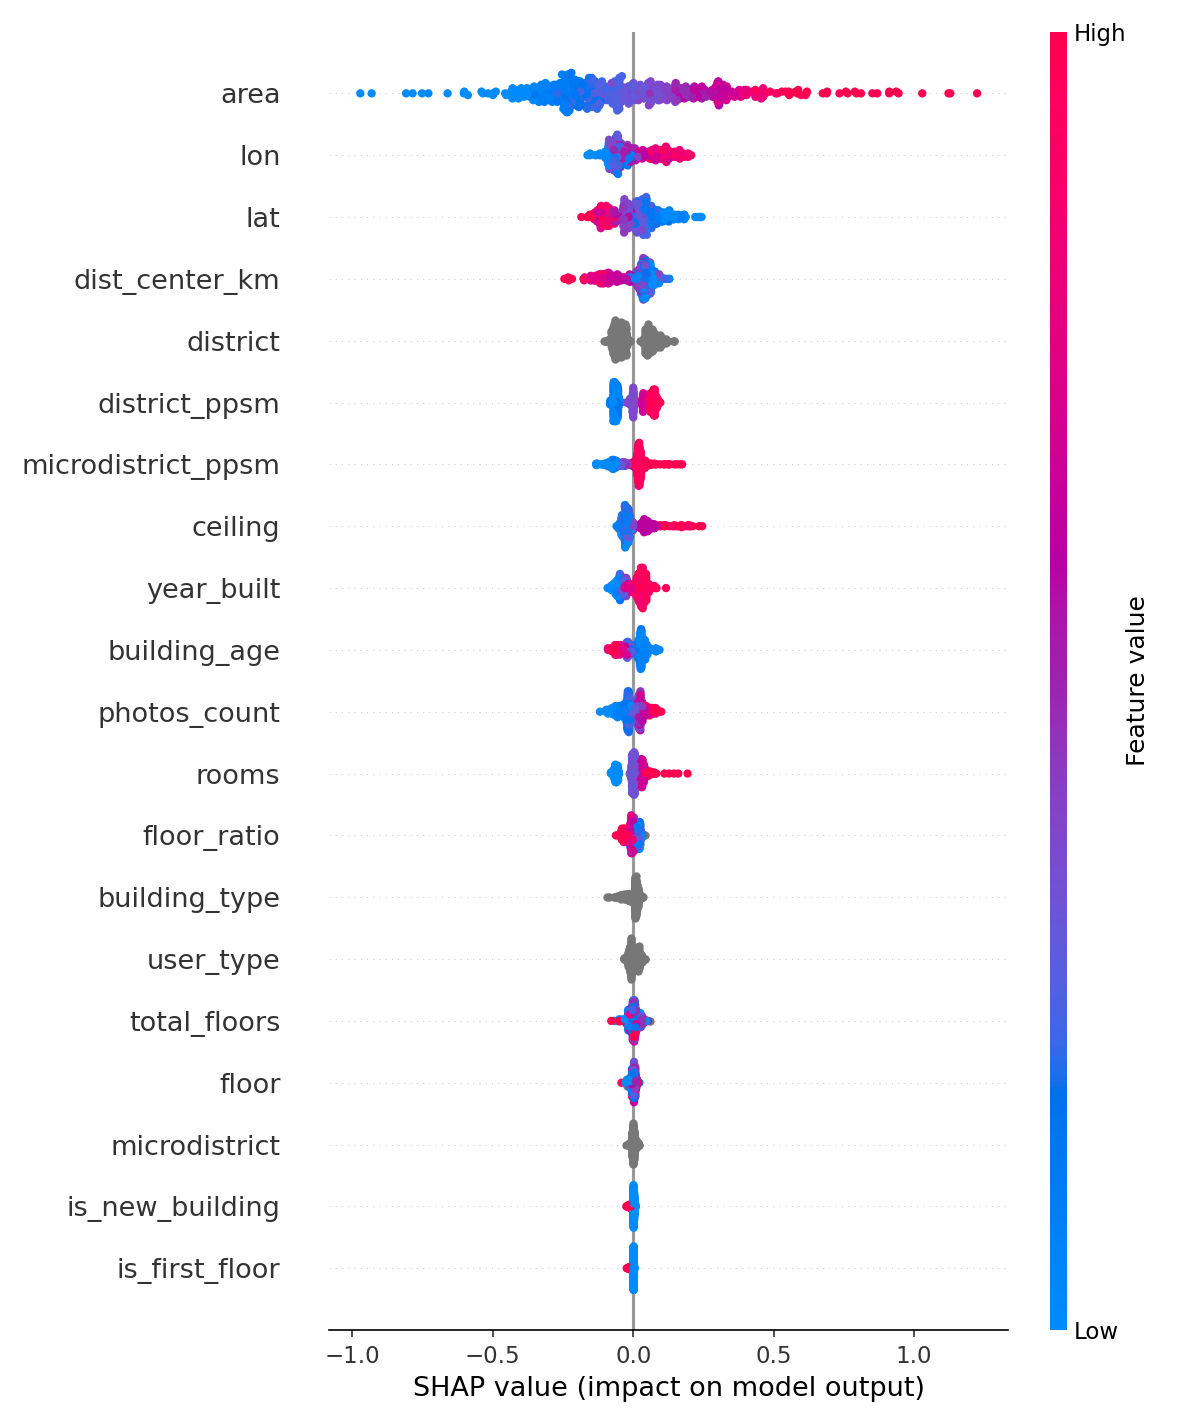
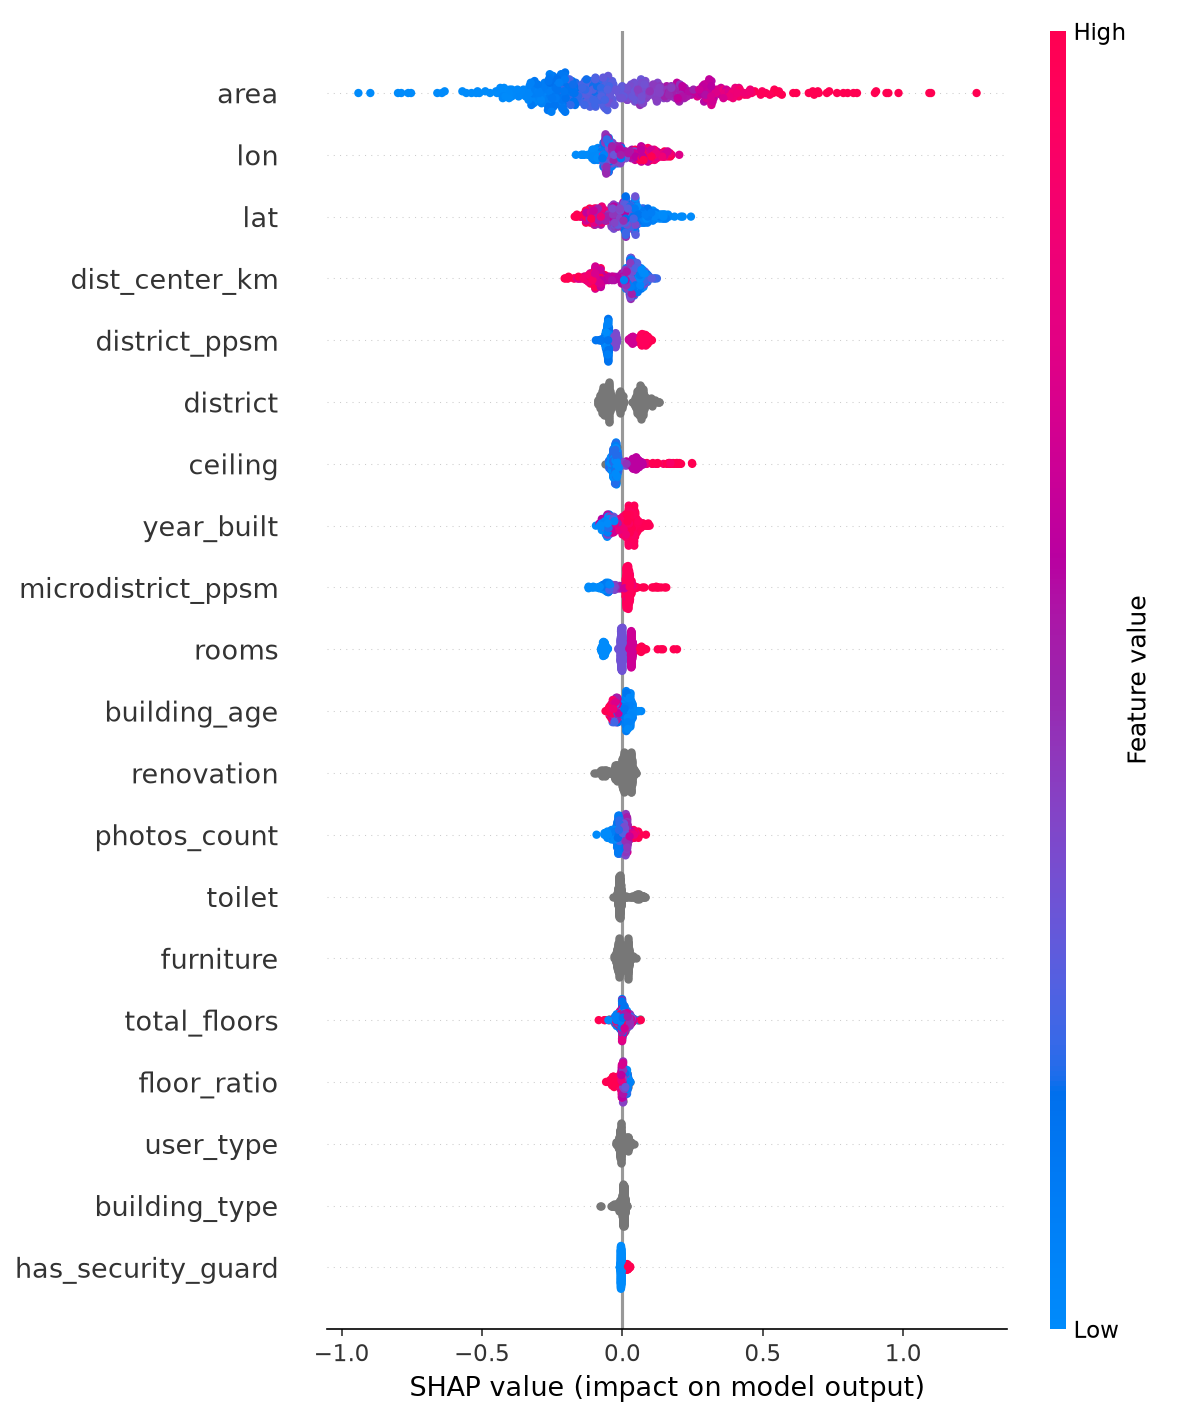
feat(model): фичи из raw_params — ремонт, санузел, мебель, парковка, балкон, безопасность
Этап 1 роадмапа: модель теперь видит поля, которые уже лежали в raw_params.

- features.py: 5 новых категориальных фичей (пропуск → unknown) +
  flat.security разложен в флаги охрана/домофон/видеонаблюдение и счётчик опций
- работает и в train (из БД), и в predict (raw_params из распарсенной страницы)
- 4 новых теста на извлечение, пропуски и битый JSON

Retrain на той же выборке 7050 объявлений (split RANDOM_STATE=42 не менялся):
- MAE:  7.65 млн ₸ → 7.18 млн ₸ (−6.1%)
- MAPE: 10.6% → 10.0%
- R²:   0.780 → 0.814

Топ новых фичей по важности: renovation 1.75, toilet 1.24, furniture 0.90,
security_count 0.87, balcony 0.80, parking 0.72.

diff --git a/src/krisha/features.py b/src/krisha/features.py
@@ -1,5 +1,6 @@
 """Очистка данных и фичи для модели. Используется и в обучении, и в предсказании."""
 
+import json
 import math
 from typing import Any
 
@@ -16,12 +17,34 @@ from krisha.config import (
     PRICE_MIN,
 )
 
-CAT_FEATURES = ["district", "microdistrict", "building_type", "complex_name", "user_type", "category"]
+# Поля из raw_params (этап 1 роадмапа): имя фичи → ключ в JSON объявления.
+# Значения — стандартные опции krisha («свежий ремонт», «совмещенный», ...),
+# пропуск → MISSING_CAT, CatBoost обрабатывает её как обычную категорию.
+RAW_PARAM_CAT_MAP = {
+    "renovation": "flat.renovation",   # состояние ремонта — главный прирост
+    "toilet": "flat.toilet",           # санузел
+    "furniture": "live.furniture",     # мебель
+    "parking": "flat.parking",         # парковка
+    "balcony": "flat.balcony",         # балкон/лоджия — тот же механизм, бесплатно
+}
+# flat.security — список через запятую («охрана, домофон, видеонаблюдение»):
+# раскладываем в бинарные флаги + общий счётчик опций.
+SECURITY_FLAGS = {
+    "has_security_guard": "охрана",
+    "has_intercom": "домофон",
+    "has_video_surveillance": "видеонаблюдение",
+}
+
+CAT_FEATURES = [
+    "district", "microdistrict", "building_type", "complex_name", "user_type", "category",
+    *RAW_PARAM_CAT_MAP,
+]
 NUM_FEATURES = [
     "rooms", "area", "floor", "total_floors", "floor_ratio", "is_first_floor",
     "is_last_floor", "year_built", "building_age", "ceiling", "lat", "lon",
     "dist_center_km", "photos_count", "is_new_building",
     "district_ppsm", "microdistrict_ppsm",
+    *SECURITY_FLAGS, "security_count",
 ]
 ALL_FEATURES = NUM_FEATURES + CAT_FEATURES
 TARGET = "log_price"
@@ -68,9 +91,58 @@ def compute_ppsm_maps(df: pd.DataFrame) -> dict:
     }
 
 
+def _parse_raw_params(value: Any) -> dict:
+    """JSON-строка raw_params → dict; мусор и пропуски → пустой dict."""
+    if isinstance(value, dict):
+        return value
+    if not value or not isinstance(value, str):
+        return {}
+    try:
+        parsed = json.loads(value)
+        return parsed if isinstance(parsed, dict) else {}
+    except json.JSONDecodeError:
+        return {}
+
+
+def _norm_cat(value: Any) -> str:
+    """Нормализация категориального значения: регистр, пробелы, пропуск → MISSING_CAT."""
+    if value is None or (isinstance(value, float) and math.isnan(value)):
+        return MISSING_CAT
+    text = " ".join(str(value).split()).strip().lower()
+    return text or MISSING_CAT
+
+
+def add_raw_param_features(df: pd.DataFrame) -> pd.DataFrame:
+    """Фичи из raw_params: ремонт, санузел, мебель, парковка, балкон, безопасность.
+
+    Работает в двух режимах:
+    - есть колонка `raw_params` (train из БД, predict по URL) — парсим JSON;
+    - колонки уже заданы напрямую (ручной ввод) — только нормализуем.
+    """
+    df = df.copy()
+    raw = (
+        df["raw_params"].map(_parse_raw_params)
+        if "raw_params" in df
+        else pd.Series([{}] * len(df), index=df.index)
+    )
+
+    for col, key in RAW_PARAM_CAT_MAP.items():
+        if col not in df:
+            df[col] = raw.map(lambda p, k=key: p.get(k))
+        df[col] = df[col].map(_norm_cat)
+
+    if "security" not in df:
+        df["security"] = raw.map(lambda p: p.get("flat.security") or "")
+    sec = df["security"].fillna("").astype(str).str.lower()
+    for col, keyword in SECURITY_FLAGS.items():
+        df[col] = sec.str.contains(keyword, regex=False).astype(int)
+    df["security_count"] = sec.map(lambda s: len([x for x in s.split(",") if x.strip()]))
+    return df
+
+
 def build_features(df: pd.DataFrame, ppsm_maps: dict | None = None) -> pd.DataFrame:
     """Добавляет производные фичи. Работает и для одного объявления (predict)."""
-    df = df.copy()
+    df = add_raw_param_features(df)
     for col in ["rooms", "area", "floor", "total_floors", "year_built", "ceiling",
                 "lat", "lon", "photos_count"]:
         if col not in df:

diff --git a/tests/test_features.py b/tests/test_features.py
@@ -50,3 +50,52 @@ def test_haversine_known_distance():
     # Алматы → Астана ≈ 970 км
     d = haversine_km(43.238949, 76.889709, 51.169392, 71.449074)
     assert 900 < d < 1050
+
+
+# ---------- этап 1: фичи из raw_params ----------
+
+RAW_PARAMS_JSON = (
+    '{"flat.renovation": "Свежий ремонт", "flat.toilet": "совмещенный", '
+    '"live.furniture": "полностью", "flat.parking": "паркинг", '
+    '"flat.balcony": "лоджия", '
+    '"flat.security": "охрана, домофон, видеонаблюдение, видеодомофон"}'
+)
+
+
+def test_raw_params_extracted():
+    df = build_features(pd.DataFrame([
+        {"price": 30_000_000, "area": 50, "raw_params": RAW_PARAMS_JSON},
+    ]))
+    row = df.iloc[0]
+    assert row["renovation"] == "свежий ремонт"  # нормализован регистр
+    assert row["toilet"] == "совмещенный"
+    assert row["furniture"] == "полностью"
+    assert row["parking"] == "паркинг"
+    assert row["balcony"] == "лоджия"
+    assert row["has_security_guard"] == 1
+    assert row["has_intercom"] == 1
+    assert row["has_video_surveillance"] == 1
+    assert row["security_count"] == 4
+
+
+def test_raw_params_missing_is_unknown():
+    df = build_features(pd.DataFrame([{"price": 30_000_000, "area": 50}]))
+    row = df.iloc[0]
+    assert row["renovation"] == "unknown"
+    assert row["toilet"] == "unknown"
+    assert row["has_security_guard"] == 0
+    assert row["security_count"] == 0
+
+
+def test_raw_params_broken_json_safe():
+    df = build_features(pd.DataFrame([
+        {"price": 30_000_000, "area": 50, "raw_params": "{broken"},
+    ]))
+    assert df.iloc[0]["renovation"] == "unknown"
+
+
+def test_listing_to_frame_with_raw_params():
+    df = listing_to_frame({"price": 30_000_000, "area": 50, "rooms": 2,
+                           "raw_params": RAW_PARAMS_JSON})
+    assert df.iloc[0]["renovation"] == "свежий ремонт"
+    assert set(ALL_FEATURES) <= set(df.columns)
